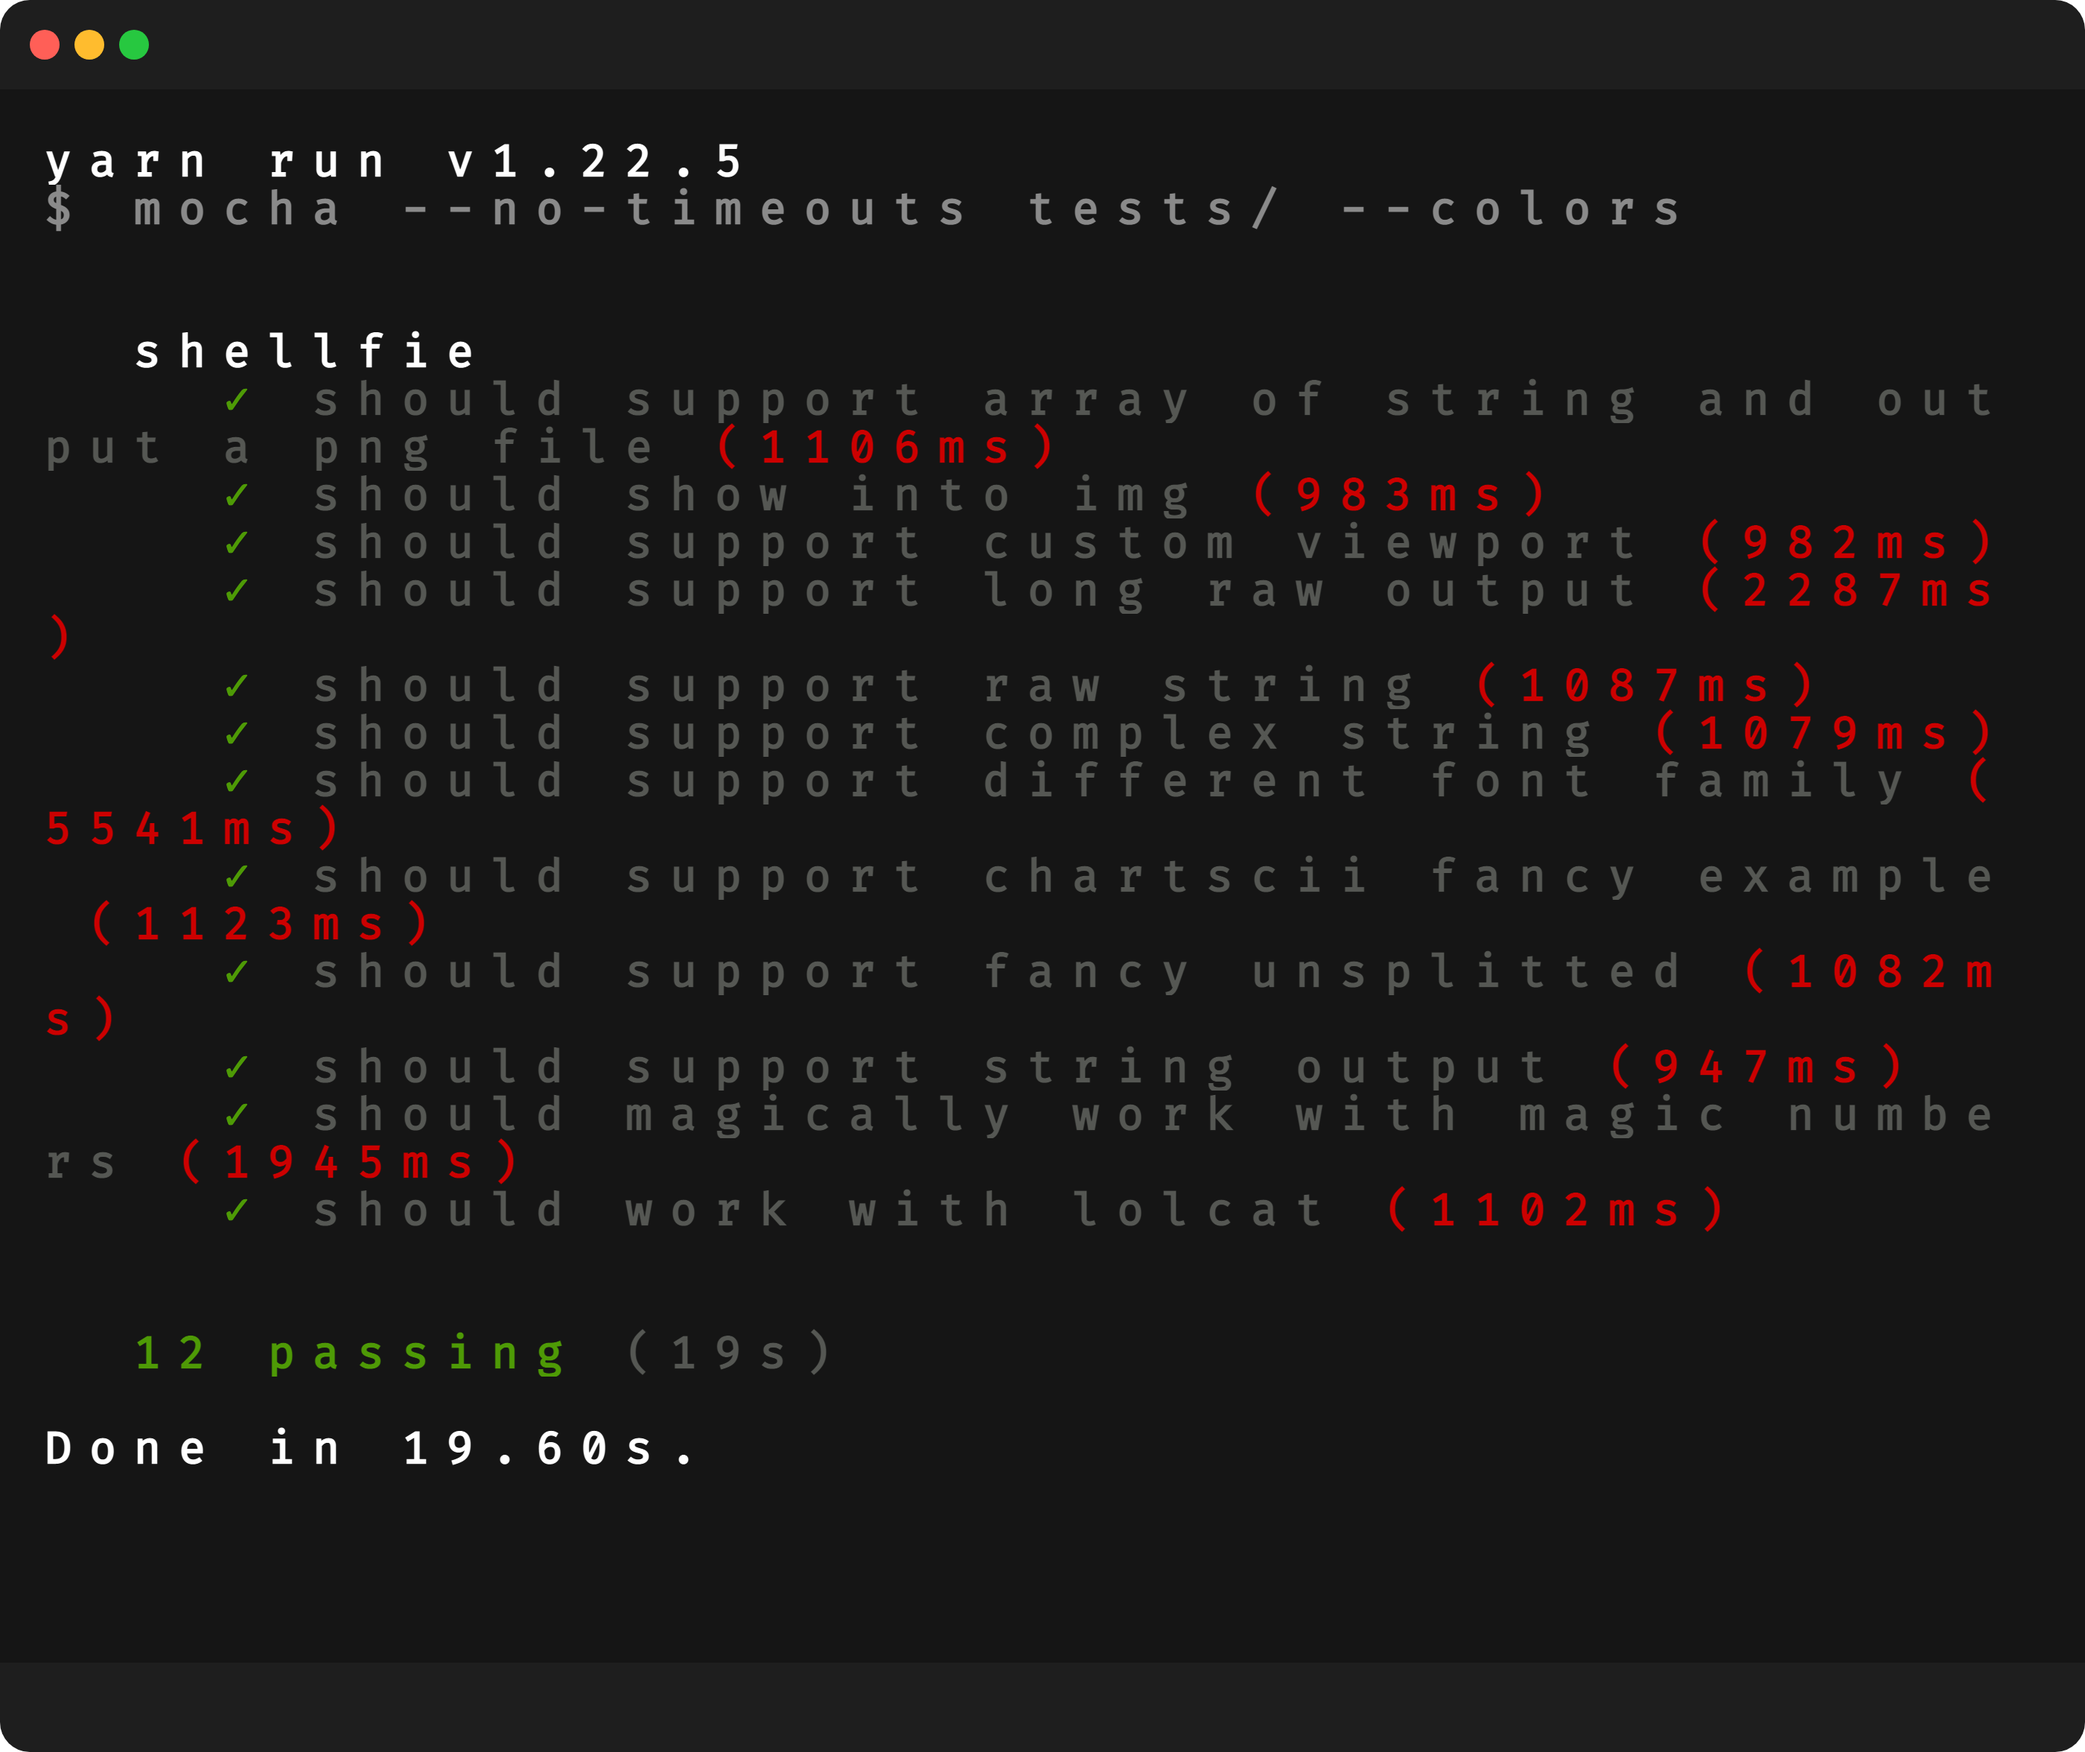
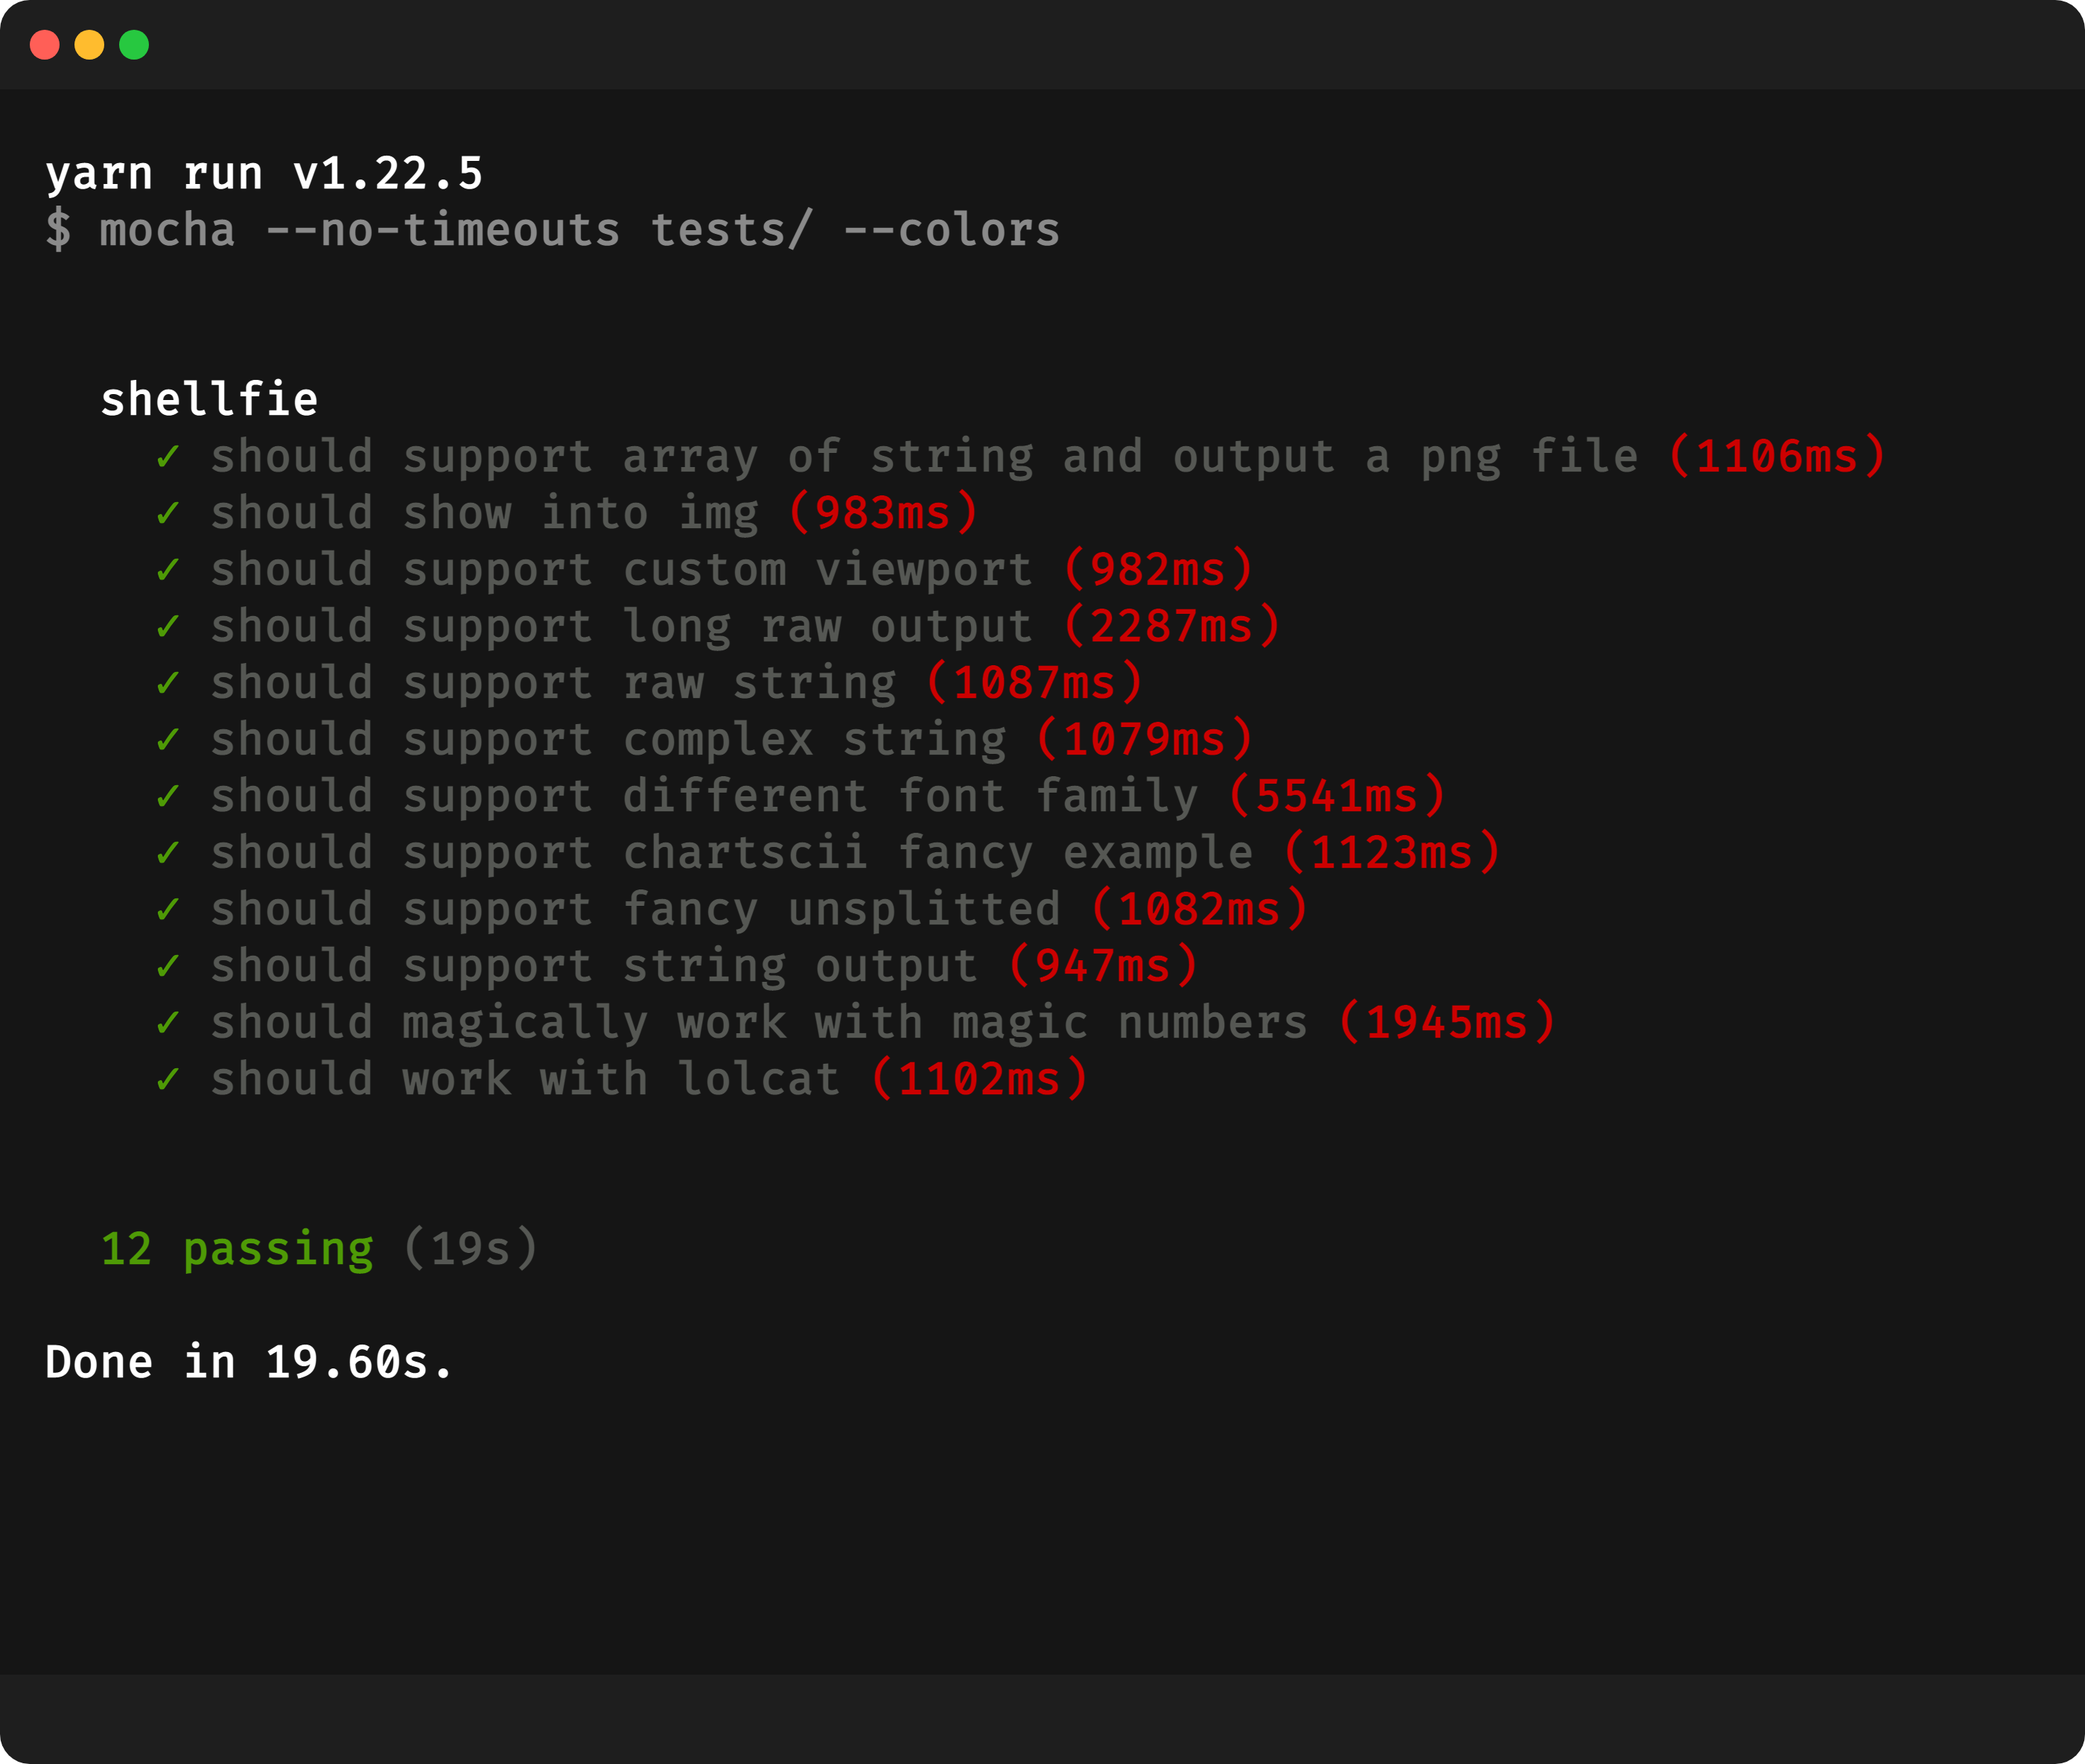
docs: enhanced readme examples

diff --git a/tests/shellfie.test.js b/tests/shellfie.test.js
@@ -7,7 +7,7 @@ describe('shellfie', () => {
         await shellfie(["\x1b[32mGreen line", "\x1b[31;1mRED bold"], { name: 'image name' });
     });
 
-    it('should show intro img', async () => {
+    it.only('should show intro img', async () => {
         const data = [
             '\x1b[105mSHELLFIE\\x1b[0m🤳',
             '\x1b[38;5;225mthe easiest way',
@@ -52,7 +52,7 @@ describe('shellfie', () => {
         await shellfie(data, options);
     });
 
-    it('should support custom viewport', async () => {
+    it.only('should support custom viewport', async () => {
         await shellfie(["\x1b[32mGreen line", "\x1b[31;1mRED bold"], { name: 'small', viewport: { width: 200, height: 200 } });
     });
 
@@ -107,7 +107,7 @@ describe('shellfie', () => {
         await shellfie(testResults, { name: 'mocha test results', viewport: { height: 400 } });
     });
 
-    it('should support different font family', async () => {
+    it.only('should support different font family', async () => {
         const testResults = [
             "[2K[1G[1myarn run v1.22.5[22m",
             "[2K[1G[2m$ mocha --no-timeouts tests/ --colors[22m",

diff --git a/README.md b/README.md
@@ -129,6 +129,10 @@ const testResults = [
     "[2K[1GDone in 19.60s.",
 ];
 await shellfie(testResults, { name: 'fira', style: { fontFamily: 'Fira Code', fontWeight: 'bold' } });
+await shellfie(testResults, { name: 'monospace', style: { fontFamily: 'monospace' } });
+await shellfie(testResults, { name: 'monaco', style: { fontFamily: 'Monaco' } });
 ```   
 
 <img src="./shellfies/fira.png" />
+<img src="./shellfies/monospace.png" />
+<img src="./shellfies/monaco.png" />
